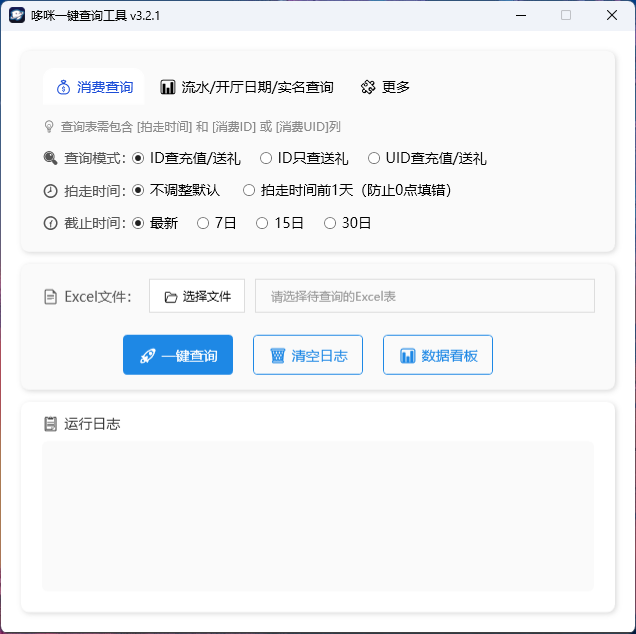
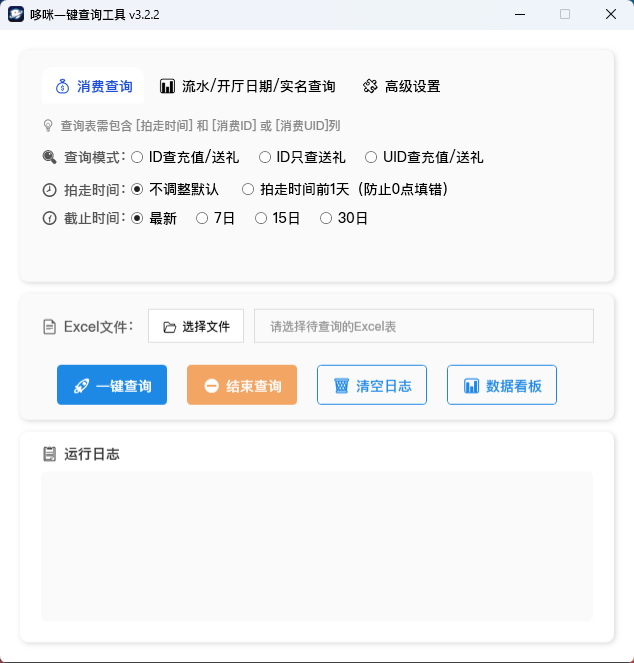
更新说明

diff --git a/README.md b/README.md
@@ -1,67 +1,42 @@
-commit 3306e4d96dba94b0410f372e00589b63de769557
-Author: kejifrs <kejifrs@gmail.com>
-Date:   Fri Aug 14 18:08:53 2026 +0800
+# 软件介绍
 
-    鏇存柊 README 鍜?Release 璇存槑涓?v3.2.3
+`DmPayQuery` 是一个基于 `.NET 10` 的 `WPF` 桌面工具，用于批量查询相关业务数据，并将结果导出为 Excel 文件。
 
-diff --git a/README.md b/README.md
-index 5b601d0..6b57018 100644
---- a/README.md
-+++ b/README.md
-@@ -1,42 +1,51 @@
--# 杞欢浠嬬粛
-+锘?# 鍙戝竷 v3.2.3
- 
--`DmPayQuery` 鏄竴涓熀浜?`.NET 10` 鐨?`WPF` 妗岄潰宸ュ叿锛岀敤浜庢壒閲忔煡璇㈢浉鍏充笟鍔℃暟鎹紝骞跺皢缁撴灉瀵煎嚭涓?Excel 鏂囦欢銆?+- 鐗堟湰鍙凤細3.2.3
-+- 涓嬭浇锛?https://github.com/kejifrs/DmPayQuery/releases/download/v3.2.3/DmPayQuery_Portable_v3.2.3.zip
-+- SHA256锛?D4156850B21C25975573504CD48A9F460D9FB7D5D33F253152C0812A0E03696B
- 
--褰撳墠鏀寔鐨勪富瑕佽兘鍔涳細
-+鏈鍙戝竷涓轰究鎼哄崟鏂囦欢锛圧elease銆亀in-x64銆佹鏋朵緷璧栵級锛岃鎯呰瑙?Releases 椤甸潰銆? 
--- 鎸?`娑堣垂ID` 鏌ヨ鍏呭€?/ 閫佺ぜ閲戦
--- 鎸?`娑堣垂UID` 鏌ヨ鍏呭€?/ 閫佺ぜ閲戦
--- 鎸?`鍘匢D` 鏌ヨ鍘呮祦姘翠笌寮€鍘呮椂闂?-- 鎸?`涓绘挱ID` 鏌ヨ涓绘挱娴佹按涓庡疄鍚嶄俊鎭?-- 鏀寔鐧诲綍缂撳瓨銆佹壒閲忓鐞嗐€佺粨鏋滃鍑轰笌鏃ュ織鏌ョ湅
-+# 鏉烆垯娆㈡禒瀣矝
- 
--# 鏋勫缓涓庡彂甯?+`DmPayQuery` 閺勵垯绔存稉顏勭唨娴?`.NET 10` 閻?`WPF` 濡楀矂娼板銉ュ徔閿涘瞼鏁ゆ禍搴㈠闁插繑鐓＄拠銏㈡祲閸忓厖绗熼崝鈩冩殶閹诡噯绱濋獮璺虹殺缂佹挻鐏夌€电厧鍤稉?Excel 閺傚洣娆㈤妴?
- 
--鏈粨搴撴槸涓€涓熀浜?.NET 10 鐨?WPF 搴旂敤绋嬪簭銆備娇鐢ㄩ檮甯︾殑 `publish.ps1` 鑴氭湰鍙互鐢熸垚涓€涓綋绉緝灏忕殑鍗曟枃浠躲€佹鏋朵緷璧栫殑鍙戝竷鍖咃紝鐩爣鏈哄櫒闇€瑕佸畨瑁?Microsoft .NET Desktop Runtime銆?+瑜版挸澧犻弨顖涘瘮閻ㄥ嫪瀵岀憰浣藉厴閸旀冻绱? 
--绀轰緥锛?+- 閹?`濞戝牐鍨侷D` 閺屻儴顕楅崗鍛偓?/ 闁胶銇滈柌鎴︻杺
-+- 閹?`濞戝牐鍨俇ID` 閺屻儴顕楅崗鍛偓?/ 闁胶銇滈柌鎴︻杺
-+- 閹?`閸樺將D` 閺屻儴顕楅崢鍛ウ濮樼繝绗屽鈧崢鍛闂?
-+- 閹?`娑撶粯鎸盜D` 閺屻儴顕楁稉缁樻尡濞翠焦鎸夋稉搴＄杽閸氬秳淇婇幁?
-+- 閺€顖涘瘮閻ц缍嶇紓鎾崇摠閵嗕焦澹掗柌蹇擃槱閻炲棎鈧胶绮ㄩ弸婊冾嚤閸戣桨绗岄弮銉ョ箶閺屻儳婀? 
-- - 鍙戝竷 x64 Release锛堥粯璁わ級锛?+# 閺嬪嫬缂撴稉搴″絺鐢?
-+
-+閺堫兛绮ㄦ惔鎾存Ц娑撯偓娑擃亜鐔€娴?.NET 10 閻?WPF 鎼存梻鏁ょ粙瀣碍閵嗗倷濞囬悽銊╂鐢妇娈?`publish.ps1` 閼存碍婀伴崣顖欎簰閻㈢喐鍨氭稉鈧稉顏冪秼缁夘垵绶濈亸蹇曟畱閸楁洘鏋冩禒韬测偓浣诡攱閺嬫湹绶风挧鏍畱閸欐垵绔烽崠鍜冪礉閻╊喗鐖ｉ張鍝勬珤闂団偓鐟曚礁鐣ㄧ憗?Microsoft .NET Desktop Runtime閵?
-+
-+缁€杞扮伐閿?
-+
-+ - 閸欐垵绔?x64 Release閿涘牓绮拋銈忕礆閿?
-    `./publish.ps1 -Runtime win-x64`
- 
-- - 鍚敤 ReadyToRun 鍙戝竷锛堝彲鑳藉澶т綋绉級锛?+ - 閸氼垳鏁?ReadyToRun 閸欐垵绔烽敍鍫濆讲閼宠棄顤冩径褌缍嬬粔顖ょ礆閿?
-    `./publish.ps1 -Runtime win-x64 -EnableReadyToRun`
- 
--## 娉ㄦ剰浜嬮」
-+## 濞夈劍鍓版禍瀣€?+
-+- 閸欐垵绔锋稉鐑橆攱閺嬫湹绶风挧鏍佸蹇ョ礄`SelfContained=false`閿涘绱濋惄顔界垼閺堝搫娅掗棁鈧€瑰顥婄€电懓绨查惃?Windows Desktop 鏉╂劘顢戦弮韬测偓?
-+- 姒涙顓婚崥顖滄暏鐟佷礁澹€閿涘潉Trimming`閿涘浜掗崙蹇撶毈閺傚洣娆㈡担鎾缎濋敍娑滎梿閸擃亜褰查懗鐣屝╅梽銈堢箥鐞涘本妞傞幍鈧棁鈧禒锝囩垳閿涘苯褰傜敮鍐ㄥ鐠囧嘲鍘栭崚鍡樼ゴ鐠囨洏鈧?
-+- 閺屻儴顕楅崜宥堫嚞绾喛顓绘潏鎾冲弳閻?Excel 鐞涖劌銇旀稉搴よ拫娴犳儼顩﹀Ч鍌欑閼疯揪绱濇笟瀣洤閿涙瓪濞戝牐鍨侷D`閵嗕梗濞戝牐鍨俇ID`閵嗕梗閹峰秷铔嬮弮鍫曟？`閵嗕梗閸樺將D`閵嗕梗娑撶粯鎸盜D` 缁涘鈧?
-+- 閼?`閺屻儴顕楃紒鎾寸亯.xlsx` 瀹歌尪顫﹂崗鏈电铂缁嬪绨幍鎾崇磻閿涘苯褰查懗钘夘嚤閼峰绮ㄩ弸婊勬￥濞夋洑绻氱€涙﹫绱濈拠宄板帥閸忔娊妫撮崡鐘垫暏鐠囥儲鏋冩禒鍓佹畱缁嬪绨崥搴″晙闁插秷鐦妴?
-+- 閹恒儱褰涙潻鏂挎礀缂佹挻鐏夐崣妤佹箛閸旓紕顏弫鐗堝祦閻樿埖鈧礁濂栭崫宥忕礉閺屻儴顕楁径杈Е閵嗕焦妫ら弫鐗堝祦閹存牕鐤勯崥宥勪繆閹垳宸辨径杈╃搼閹懎鍠岀仦鐐扮艾濮濓絽鐖舵稉姘鏉╂柨娲栭懠鍐ㄦ纯閵?
- 
--- 鍙戝竷涓烘鏋朵緷璧栨ā寮忥紙`SelfContained=false`锛夛紝鐩爣鏈哄櫒闇€瀹夎瀵瑰簲鐨?Windows Desktop 杩愯鏃躲€?-- 榛樿鍚敤瑁佸壀锛坄Trimming`锛変互鍑忓皬鏂囦欢浣撶Н锛涜鍓彲鑳界Щ闄よ繍琛屾椂鎵€闇€浠ｇ爜锛屽彂甯冨墠璇峰厖鍒嗘祴璇曘€?-- 鏌ヨ鍓嶈纭杈撳叆鐨?Excel 琛ㄥご涓庤蒋浠惰姹備竴鑷达紝渚嬪锛歚娑堣垂ID`銆乣娑堣垂UID`銆乣鎷嶈蛋鏃堕棿`銆乣鍘匢D`銆乣涓绘挱ID` 绛夈€?-- 鑻?`鏌ヨ缁撴灉.xlsx` 宸茶鍏朵粬绋嬪簭鎵撳紑锛屽彲鑳藉鑷寸粨鏋滄棤娉曚繚瀛橈紝璇峰厛鍏抽棴鍗犵敤璇ユ枃浠剁殑绋嬪簭鍚庡啀閲嶈瘯銆?-- 鎺ュ彛杩斿洖缁撴灉鍙楁湇鍔＄鏁版嵁鐘舵€佸奖鍝嶏紝鏌ヨ澶辫触銆佹棤鏁版嵁鎴栧疄鍚嶄俊鎭己澶辩瓑鎯呭喌灞炰簬姝ｅ父涓氬姟杩斿洖鑼冨洿銆?+## 閸忓秷鐭楁竟鐗堟
- 
--## 鍏嶈矗澹版槑
-+- 閺堫剙浼愰崗铚傜矌娓氭稑鎮庡▔鏇炴値鐟欏嫮娈戝ù瀣槸鐎涳缚绡勬稉搴㈡殶閹诡喗鏆ｉ悶鍡欐暏闁柧濞囬悽銊ｂ偓?
-+- 娴ｈ法鏁ら懓鍛安閼奉亣顢戠涵顔荤箽閹碘偓婢跺嫮鎮婇惃鍕殶閹诡喓鈧浇澶勯崣宄板挤閹垮秳缍旂悰灞艰礋缁楋箑鎮庨幍鈧仦鐐查挬閸欒埇鈧礁鍙曢崣绋垮挤閻╃鍙у▔鏇炵伐濞夋洝顫夌憰浣圭湴閵?
-+- 閸ョ姵甯撮崣锝呭綁閺囨番鈧胶缍夌紒婊冪磽鐢悶鈧浇澶勯崣閿嬫綀闂勬劒绗夌搾鐐解偓浣侯儑娑撳鏌熼張宥呭濞夈垹濮╅幋鏍﹀▏閻劎骞嗘晶鍐ㄦ▕瀵倸顕遍懛瀵告畱閺屻儴顕楁径杈Е閵嗕胶绮ㄩ弸婊冧焊瀹割喗鍨ㄩ弫鐗堝祦缂傚搫銇戦敍宀勩€嶉惄顔荤瑝閹佃儻顕紒婵嗩嚠閸戝棛鈥橀幀褌绗岄幐浣虹敾閸欘垳鏁ら幀褋鈧?
-+- 娴ｈ法鏁ら張顒€浼愰崗閿嬪娴溠呮晸閻ㄥ嫪鎹㈡担鏇犳纯閹恒儲鍨ㄩ梻瀛樺复閹圭喎銇戦妴浣规殶閹诡噣妫舵０妯诲灗娑撴艾濮熻ぐ鍗炴惙閿涘瞼鏁辨担璺ㄦ暏閼板懓鍤滅悰灞惧閹峰懌鈧?
- 
--- 鏈伐鍏蜂粎渚涘悎娉曞悎瑙勭殑娴嬭瘯瀛︿範涓庢暟鎹暣鐞嗙敤閫斾娇鐢ㄣ€?-- 浣跨敤鑰呭簲鑷纭繚鎵€澶勭悊鐨勬暟鎹€佽处鍙峰強鎿嶄綔琛屼负绗﹀悎鎵€灞炲钩鍙般€佸叕鍙稿強鐩稿叧娉曞緥娉曡瑕佹眰銆?-- 鍥犳帴鍙ｅ彉鏇淬€佺綉缁滃紓甯搞€佽处鍙锋潈闄愪笉瓒炽€佺涓夋柟鏈嶅姟娉㈠姩鎴栦娇鐢ㄧ幆澧冨樊寮傚鑷寸殑鏌ヨ澶辫触銆佺粨鏋滃亸宸垨鏁版嵁缂哄け锛岄」鐩笉鎵胯缁濆鍑嗙‘鎬т笌鎸佺画鍙敤鎬с€?-- 浣跨敤鏈伐鍏锋墍浜х敓鐨勪换浣曠洿鎺ユ垨闂存帴鎹熷け銆佹暟鎹棶棰樻垨涓氬姟褰卞搷锛岀敱浣跨敤鑰呰嚜琛屾壙鎷呫€?+## 鏉烆垯娆㈤悾宀勬桨
- 
--## 杞欢鐣岄潰
-+![鏉烆垯娆㈤悾宀勬桨閹搭亜娴榏(UI閻ｅ矂娼伴幋顏勬禈.png)
- 
--![杞欢鐣岄潰鎴浘](UI鐣岄潰鎴浘.png)
+当前支持的主要能力：
+
+- 按 `消费ID` 查询充值 / 送礼金额
+- 按 `消费UID` 查询充值 / 送礼金额
+- 按 `厅ID` 查询厅流水与开厅时间
+- 按 `主播ID` 查询主播流水与实名信息
+- 支持登录缓存、批量处理、结果导出与日志查看
+
+# 构建与发布
+
+本仓库是一个基于 .NET 10 的 WPF 应用程序。使用附带的 `publish.ps1` 脚本可以生成一个体积较小的单文件、框架依赖的发布包，目标机器需要安装 Microsoft .NET Desktop Runtime。
+
+示例：
+
+ - 发布 x64 Release（默认）：
+   `./publish.ps1 -Runtime win-x64`
+
+ - 启用 ReadyToRun 发布（可能增大体积）：
+   `./publish.ps1 -Runtime win-x64 -EnableReadyToRun`
+
+## 注意事项
+
+- 发布为框架依赖模式（`SelfContained=false`），目标机器需安装对应的 Windows Desktop 运行时。
+- 默认启用裁剪（`Trimming`）以减小文件体积；裁剪可能移除运行时所需代码，发布前请充分测试。
+- 查询前请确认输入的 Excel 表头与软件要求一致，例如：`消费ID`、`消费UID`、`拍走时间`、`厅ID`、`主播ID` 等。
+- 若 `查询结果.xlsx` 已被其他程序打开，可能导致结果无法保存，请先关闭占用该文件的程序后再重试。
+- 接口返回结果受服务端数据状态影响，查询失败、无数据或实名信息缺失等情况属于正常业务返回范围。
+
+## 免责声明
+
+- 本工具仅供合法合规的测试学习与数据整理用途使用。
+- 使用者应自行确保所处理的数据、账号及操作行为符合所属平台、公司及相关法律法规要求。
+- 因接口变更、网络异常、账号权限不足、第三方服务波动或使用环境差异导致的查询失败、结果偏差或数据缺失，项目不承诺绝对准确性与持续可用性。
+- 使用本工具所产生的任何直接或间接损失、数据问题或业务影响，由使用者自行承担。
+
+## 软件界面
+
+![软件界面截图](UI界面截图.png)
